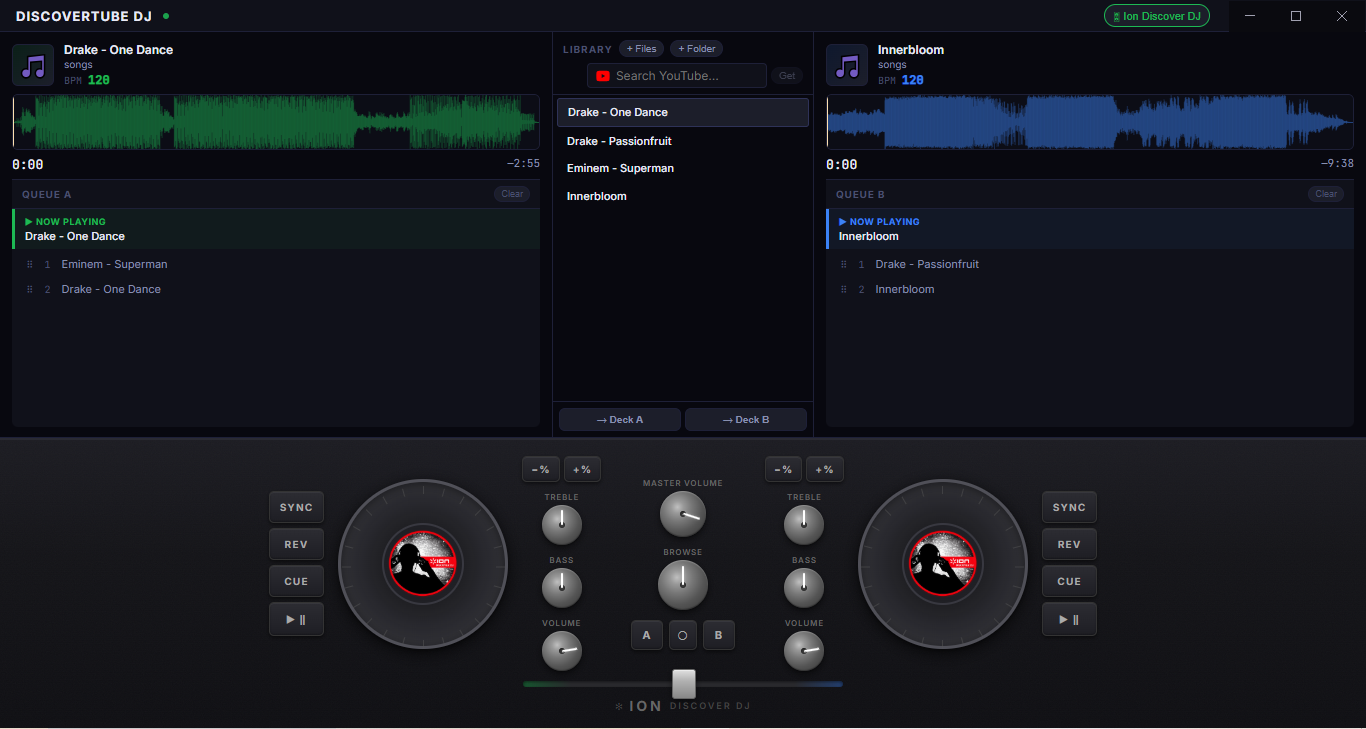
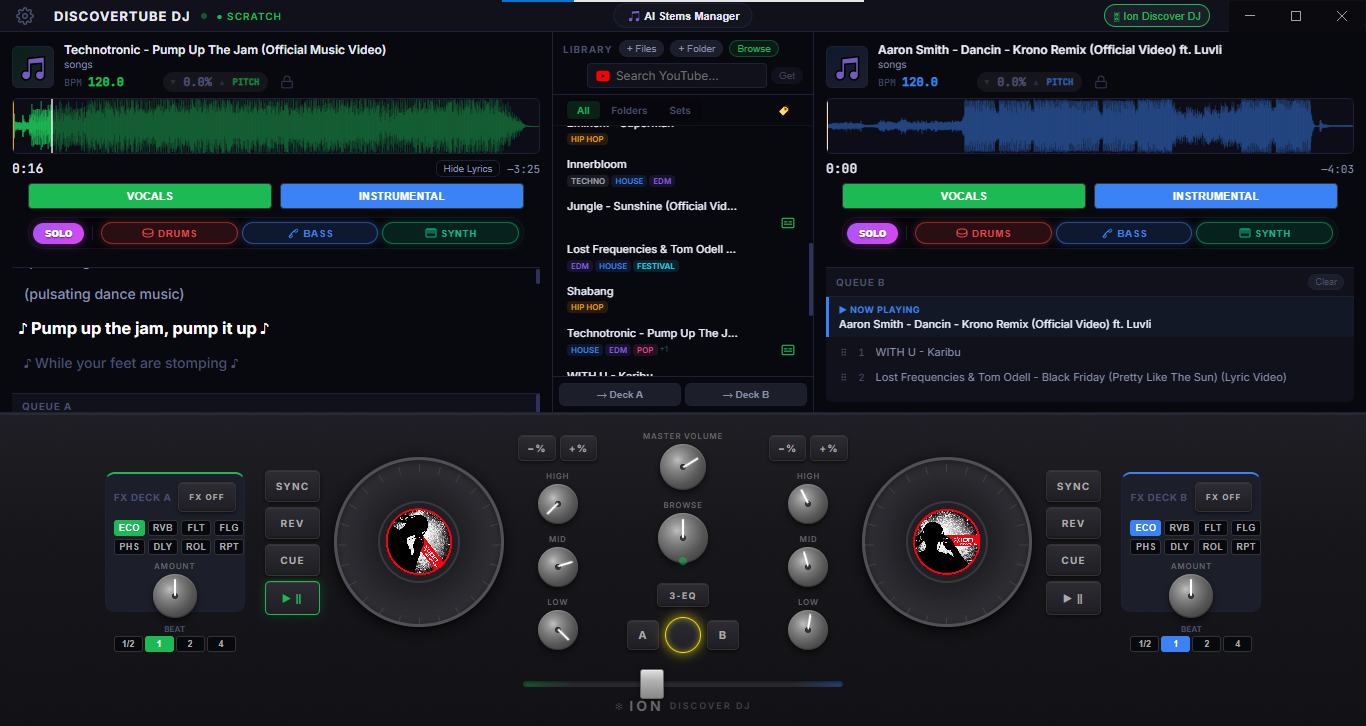
updated docs & README

diff --git a/docs/architecture.md b/docs/architecture.md
@@ -10,23 +10,25 @@ The Main Process handles all native OS interactions and heavy lifting:
 - **Window Management**: Instantiates the borderless, transparent `BrowserWindow`.
 - **System APIs**: Uses `fs`, `os`, and `path` to interact with the user's filesystem.
 - **YouTube Pipeline**: Uses `yt-search` and `youtube-dl-exec` to scrape and download media securely outside of the browser context.
+- **AI Stems Engine**: Interfaces with the Demucs model using a dedicated background worker (`demucsWorker.mjs`) to perform heavy audio source separation natively. The worker automatically terminates after 60 seconds of inactivity to aggressively save memory.
 - **Protocol Registration**: Creates a custom `localfile://` protocol to securely stream downloaded and local audio files into the Renderer process, bypassing standard CORS and file access restrictions.
 
 ### Preload Script (`electron/preload.js`)
 Acting as the bridge between Main and Renderer, the preload script exposes a minimal, safe API to the frontend via `contextBridge`.
 - Exposes `window.electronAPI.searchYoutube()`.
 - Exposes `window.electronAPI.downloadAudio()`.
+- Exposes APIs for interacting with settings (`getDefaultPaths`, `selectDirectory`) and AI stem separation (`separateStems`, `checkStems`).
 - Handles reading and writing of `midi-mapping.json` directly to the `AppData/Roaming` directory.
 
 ### Renderer Process (`src/`)
 The frontend is a React application served by Vite during development. 
-- **Component Tree**: Organized by logical hardware representations (`DeckPanel`, `JogWheel`, `ControllerSurface`, `TrackBrowser`).
+- **Component Tree**: Organized by logical hardware representations (`DeckPanel`, `JogWheel`, `ControllerSurface`, `TrackBrowser`) and dynamic modals (`BrowseModal`, `SettingsModal`, `StemQueueModal`, `LyricsView`, `FXPanel`).
 - **State Management**: Built entirely on `zustand` (`src/store/appStore.js`). The store acts as the single source of truth, synchronizing UI visuals, MIDI LEDs, and audio engine logic.
 
 ## State Flow
 When a user physically moves a knob on their hardware controller:
-1. `MidiLayer.jsx` receives raw MIDI bytes from the OS (via the Web MIDI API / `easymidi`).
-2. The byte is mapped to a software action (e.g., `treble_A`).
+1. The Main process (`main.js`) receives raw MIDI events from the OS via `easymidi` and sends them over IPC to the frontend (`MidiLayer.jsx`).
+2. The incoming message is mapped to a software action (e.g., `treble_A`).
 3. `DJController.js` processes the action and instructs the Audio Engine (e.g., updating a BiquadFilter node).
 4. `DJController.js` updates the `zustand` store with the new value.
 5. The React components (like the on-screen EQ knobs) automatically re-render to reflect the new state.

diff --git a/docs/audio_manipulation.md b/docs/audio_manipulation.md
@@ -32,3 +32,21 @@ The app maintains a `visualAngle` property for each deck:
 - **During Normal Playback:** `Deck.js` calculates a fake 33⅓ RPM motor speed (200 degrees/second) and automatically increments `visualAngle`.
 - **During Scratching:** When the jog wheel is manipulated, `DJController.js` instantly overrides the motor, adding the raw MIDI hardware delta directly to `visualAngle`.
 - **Result:** The UI wheel effortlessly transitions between acting like a motorized turntable and physically tracking the user's hand movements 1:1.
+
+## AI Stem Separation
+DiscoverTube DJ integrates a powerful stem separation engine powered by **Demucs**. This allows you to dynamically isolate Vocals, Drums, Bass, and Other instruments from any track.
+1. When a separation is requested, the frontend `StemSeparator.js` converts the track's `AudioBuffer` into a WAV format.
+2. The WAV data is sent to the Main Process (via IPC), which delegates the heavy lifting to the Demucs AI model.
+3. Once the stems are successfully separated and saved to disk, they are decoded back into discrete `AudioBuffer`s and fed into the audio engine for playback.
+
+To optimize system resources, the Demucs AI process runs in a dedicated background worker (`demucsWorker.mjs`). This worker is spawned on-demand. If the worker remains idle for 60 seconds without any active separation tasks, it automatically terminates itself to free up memory, and will be transparently respawned the next time a separation is requested.
+
+You can easily add tracks to the separation queue by dragging and dropping a song directly into the **AI Stems Manager**. 
+
+## Dynamic FX Engine
+The audio architecture now includes an `FXChain.js` processing pipeline. It inserts specialized web audio nodes into the routing path to apply dynamic, real-time effects:
+- **Filter**: High-pass and Low-pass sweeping.
+- **Echo / Delay**: Time-based rhythmic repetitions.
+- **Modulation**: Flanger and Chorus effects.
+- **Repeat**: Granular loop repeating.
+- **Reverb**: Spatial ambiance.

diff --git a/README.md b/README.md
@@ -9,7 +9,7 @@
   </p>
 </div>
 
-DiscoverTube DJ is a powerful, desktop-based DJ application built with Electron, React, and Vite. It bridges the gap between hardware MIDI controllers (like the ION Discover DJ) and digital mixing, offering a seamless interface for local audio file playback and on-the-fly music searching and downloading from YouTube.
+DiscoverTube DJ is a powerful, desktop-based DJ application built with Electron, React, and Vite. It bridges the gap between hardware MIDI controllers (like the ION Discover DJ) and digital mixing, offering a seamless interface for local audio file playback, AI stem separation, on-the-fly music searching and downloading from YouTube.
 
 <div align="center">
   <h3>Screenshot</h3>
@@ -25,7 +25,12 @@ DiscoverTube DJ is a powerful, desktop-based DJ application built with Electron,
 ## 🎛 Features
 
 - **Dual-Deck Audio Engine**: Real-time scratching, pitch bending, EQ (Treble/Bass), and crossfading powered by the Web Audio API.
+- **AI-Powered Stem Separation**: Instantly isolate Vocals, Drums, Bass, and Other instruments from any track on the fly (powered by Demucs).
+- **Advanced FX Engine**: Built-in dynamic audio effects including Echo, Reverb, Filter, Modulation, and Repeat.
 - **Hardware MIDI Integration**: Connect your USB DJ Controller. Features an intuitive MIDI Learn system to instantly map physical knobs, jog wheels, and buttons to software actions.
+- **Smart Browse Modal**: Advanced file system browsing, tag searching, and modal-based library management.
+- **Synced Lyrics (Subtitles)**: Real-time karaoke-style lyrics display synchronized with track playback.
+- **Settings Configuration**: Customize storage paths and toggle auto-processing behaviors via a dedicated settings modal.
 - **Dynamic Track Library**: Load music directly from local folders or individual files.
 - **Instant YouTube Fetching**: Search for any song on YouTube and download it directly into your deck without leaving the app.
 

diff --git a/docs/library_and_browsing.md b/docs/library_and_browsing.md
@@ -1,0 +1,15 @@
+# Library & Browsing
+
+DiscoverTube DJ v2.0.0 introduces a powerful, modal-based track browsing experience designed for seamless file management and track discovery.
+
+## The Browse Modal
+The `BrowseModal` is a central hub for accessing both your downloaded tracks and your local filesystem. It overlays the main UI, allowing you to quickly find and load tracks without disrupting the flow of your mix.
+
+### Key Features
+- **Filesystem Navigation:** Browse your local directories directly within the app.
+- **Tag Extraction & Searching:** Automatically extracts metadata (like artist and title) from your audio files. You can instantly search through your collection using these tags.
+- **Direct Deck Loading:** Click a track in the browser to instantly load it into Deck A or Deck B.
+- **YouTube Integration:** The Browse Modal seamlessly integrates with the YouTube download flow. If you search for a track that isn't in your local library, you can trigger a YouTube search and download it on the fly.
+
+## Directory Management
+By default, all downloaded songs and processed stems are saved to specific directories. You can customize these locations via the new **Settings Configuration Modal**.

diff --git a/docs/lyrics_and_subtitles.md b/docs/lyrics_and_subtitles.md
@@ -1,0 +1,15 @@
+# Synced Lyrics & Subtitles
+
+DiscoverTube DJ features a dynamic `LyricsView` component that provides real-time, karaoke-style subtitles for your tracks.
+
+## How It Works
+When a track with lyric data is loaded into a deck, the `LyricsView` component parses the data, which includes:
+- **Start Time:** When the lyric segment begins.
+- **Duration:** How long the segment lasts.
+- **Text:** The actual lyric text.
+
+## UI Synchronization
+The visual synchronization is handled entirely within the React frontend:
+1. The `LyricsView` continuously checks the deck's current playback `position` against the `start` and `duration` of each lyric segment.
+2. The active lyric line is dynamically highlighted with a specific CSS class (`lyrics-line--active`), while passed lines are styled accordingly (`lyrics-line--passed`).
+3. The container automatically scrolls to ensure the active lyric line is always centered on the screen, providing a smooth, distraction-free experience.

diff --git a/docs/youtube_integration.md b/docs/youtube_integration.md
@@ -13,7 +13,7 @@ When a user types a query into the `TrackBrowser` component, the following seque
 Once a user clicks a result to load it onto a deck, the download pipeline begins:
 1. The Main process receives the `videoId` and generates a full YouTube URL.
 2. It invokes `youtube-dl-exec` natively. 
-3. The flags `-x` and `--audio-format mp3` (or best audio) are used to strip out video streams, downloading only the highest quality audio payload directly to the OS's temporary directory (`os.tmpdir()`).
+3. The format flag `bestaudio[ext=webm]` is used to download the highest quality native Opus stream, avoiding the need for external MP3 encoders, and saves it directly to your configured Songs directory.
 
 ## Secure Local Streaming
 Because standard Chromium security protocols block a web application from accessing arbitrary paths on the user's hard drive (like `C:/Users/Temp/...`), the application cannot simply set an `<audio src="C:/...">`.

diff --git a/docs/settings.md b/docs/settings.md
@@ -1,0 +1,13 @@
+# Settings Configuration Modal
+
+DiscoverTube DJ v2.0.0 introduces a dedicated Settings Configuration Modal, allowing you to easily customize application behavior and storage paths.
+
+## Storage Configuration
+You can customize the directories where the application saves media:
+- **Root Songs Directory:** The primary folder where all downloaded YouTube tracks and fetched subtitles are stored.
+- **Stems Storage Directory:** A separate folder designated for storing the isolated AI stems (Vocals, Drums, Bass, Other).
+
+## Processing Settings
+- **Auto-process AI Stems:** You can toggle a setting to automatically queue newly downloaded songs for AI stem separation in the background. If disabled, you can manually queue tracks by dragging a song to the AI Stems Manager.
+
+All settings are persisted and reloaded automatically when you start the application.
